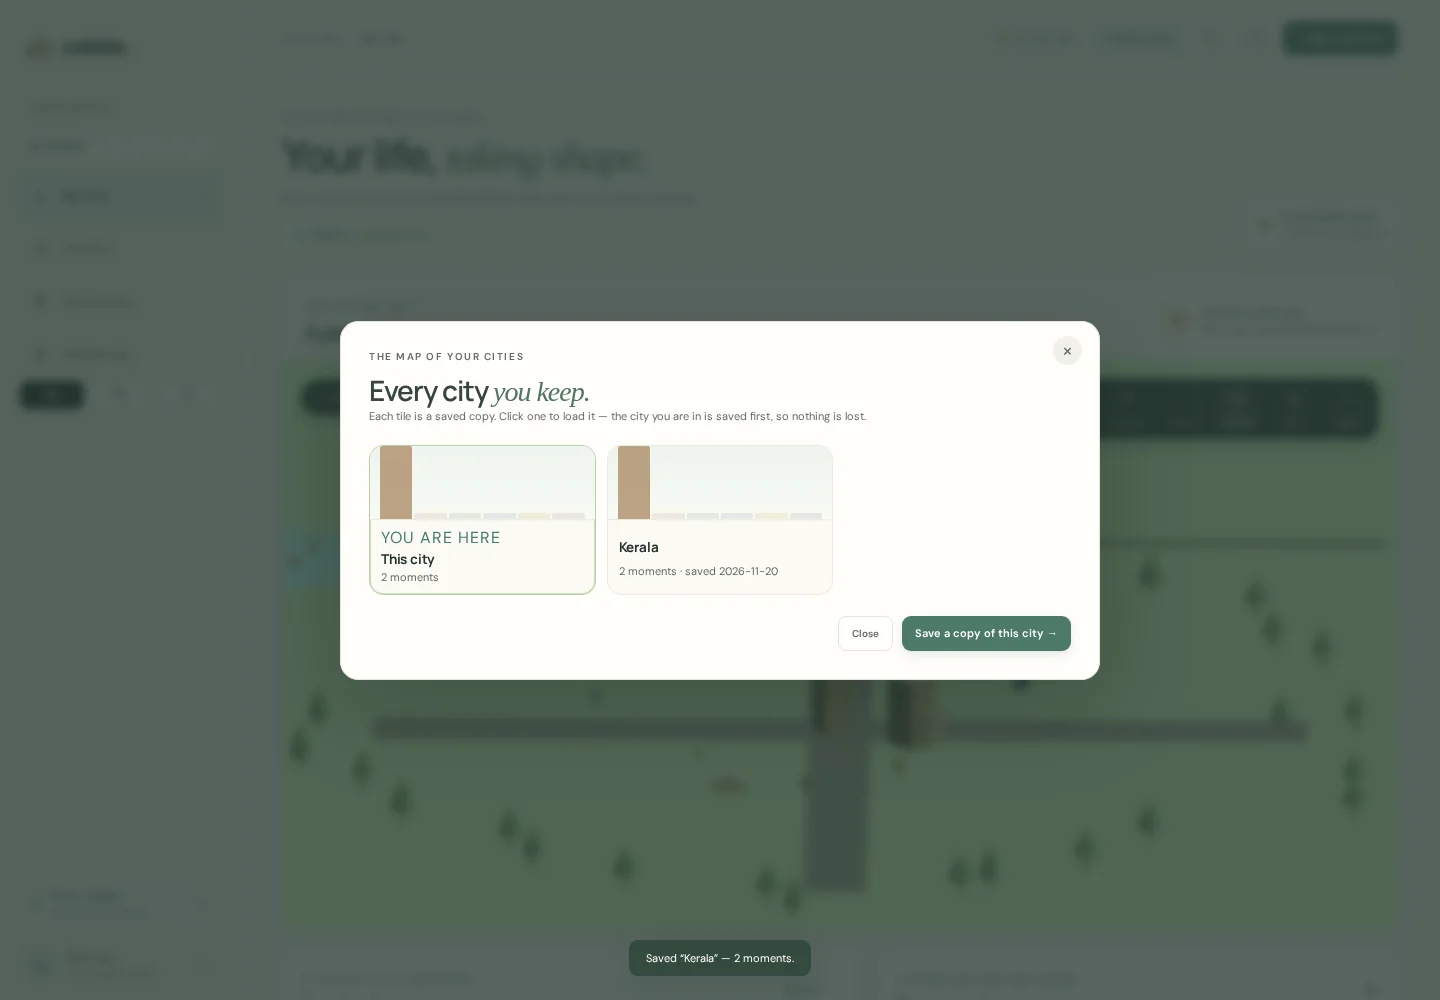
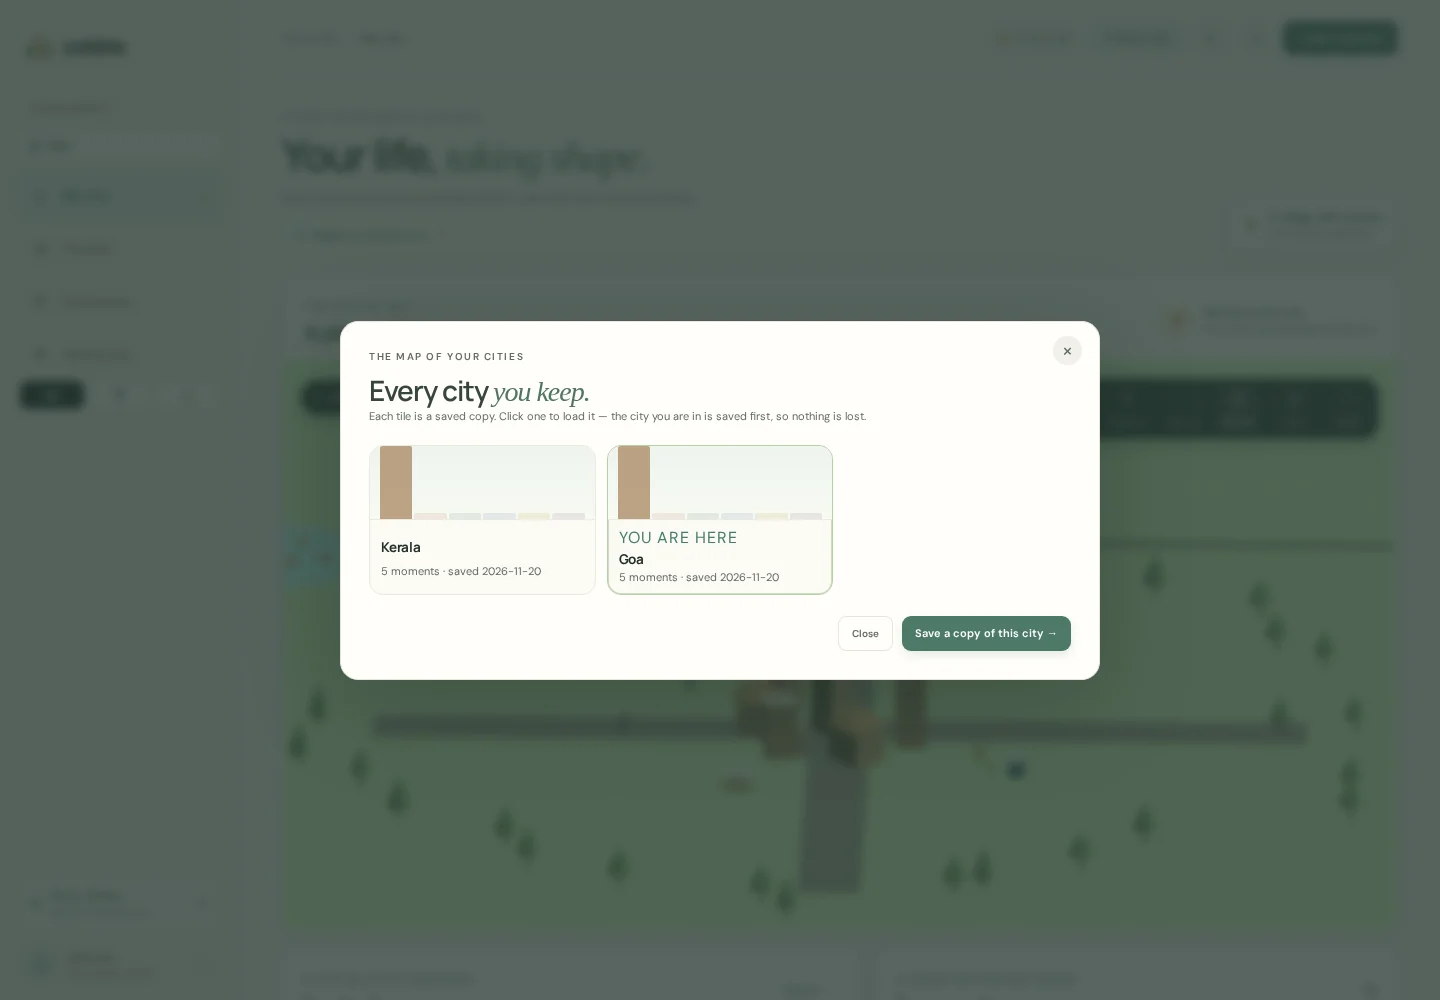
v1.49.0 — the map no longer shows the city you are in twice
With a saved city loaded the grid drew a 'This city' tile and that city's own
tile — the same archive under two names, which reads as two different places and
makes the counts look wrong. The current tile now carries 'you are here', and the
separate tile only appears when the archive is not bound to a saved city.

Also corrected the map's sentence, which still described the pre-1.47 behaviour.

diff --git a/app/app.js b/app/app.js
@@ -366,21 +366,26 @@
     let snapshots = [];
     try { snapshots = await listSnapshots(); } catch {}
 
-    const here = `
+    /* When the live archive belongs to a saved city, that city's tile is the
+       one you are in — a separate "This city" tile beside it would show the
+       same archive twice and read as two different places. */
+    const bound = snapshots.some(snap => snap.id === activeSnapshot);
+    const here = bound ? '' : `
       <button class="city-tile" type="button" aria-current="true" data-city-here="1">
         <div class="city-tile-sky">${skylineBars(countByCategory(entries))}</div>
         <div class="city-tile-body">
           <span class="city-tile-here">YOU ARE HERE</span>
-          <span class="city-tile-name">This city</span>
+          <span class="city-tile-name">${escapeHTML(activeSnapshotName || 'This city')}</span>
           <span class="city-tile-meta">${entries.length} ${entries.length === 1 ? 'moment' : 'moments'}</span>
         </div>
       </button>`;
 
     const tiles = snapshots.map(snap => `
       <div class="city-tile-wrap">
-        <button class="city-tile" type="button" data-city-load="${escapeHTML(snap.id)}">
+        <button class="city-tile" type="button" data-city-load="${escapeHTML(snap.id)}"${snap.id === activeSnapshot ? ' aria-current="true"' : ''}>
           <div class="city-tile-sky">${skylineBars(snap.counts || {})}</div>
           <div class="city-tile-body">
+            ${snap.id === activeSnapshot ? '<span class="city-tile-here">YOU ARE HERE</span>' : ''}
             <span class="city-tile-name">${escapeHTML(snap.name)}</span>
             <span class="city-tile-meta">${snap.count} ${snap.count === 1 ? 'moment' : 'moments'} · saved ${escapeHTML((snap.savedAt || '').slice(0, 10))}</span>
           </div>

diff --git a/app/index.html b/app/index.html
@@ -298,7 +298,7 @@
       <button class="modal-close" id="close-city-map" aria-label="Close">×</button>
       <p class="eyebrow">THE MAP OF YOUR CITIES</p>
       <h2 class="drawer-title" id="city-map-title">Every city <em>you keep.</em></h2>
-      <p class="drawer-lede">Each tile is a saved copy. Click one to load it — the city you are in is saved first, so nothing is lost.</p>
+      <p class="drawer-lede">Each tile is one of your cities, drawn from its own moments. Click one to load it — the city you are in keeps every change you have made to it.</p>
       <div class="city-map-grid" id="city-map-grid"></div>
       <div class="share-actions">
         <button type="button" class="cancel-button" id="close-city-map-button">Close</button>

diff --git a/sw.js b/sw.js
@@ -12,9 +12,9 @@
  * cache is deleted on activate, and the new files are fetched with cache:reload
  * during install so a stale copy cannot win.
  */
-const CACHE_VERSION = 'v46';
+const CACHE_VERSION = 'v47';
 const CACHE_NAME = `cobble-${CACHE_VERSION}`;
-const ASSET_VERSION = '1.48.0';
+const ASSET_VERSION = '1.49.0';
 
 const PRECACHE = [
   './',

diff --git a/CHANGELOG.md b/CHANGELOG.md
@@ -2,6 +2,20 @@
 
 All notable changes to Cobble. Dates are ISO 8601.
 
+## 1.49.0 — 2026-11-20
+
+### Fixed
+
+- **The map showed the city you are in twice.** With a saved city loaded, the grid drew a *This city* tile *and* that city's own tile — the same archive under two names, which reads as two different places and makes you doubt the counts. Now the tile you are in carries the *you are here* line, and the separate tile only appears when the archive is not bound to any saved city.
+
+### Changed
+
+- The map's own sentence now matches the behaviour since 1.47.0: *"Click one to load it — the city you are in keeps every change you have made to it."* It still said the old thing about saving first, which is what happens only when the archive is unsaved.
+
+### Verified
+
+- Built three cities through the interface and read the map back: two tiles, *Goa* marked *you are here* with `aria-current`, *Kerala* plain — no duplicate. Before any copy exists, the single *This city* tile still appears.
+
 ## 1.48.0 — 2026-11-20
 
 ### Added
@@ -41,6 +55,20 @@ It is still **one live archive plus named copies**, not several archives open at
 - Two moments saved as *Kerala*, then the map read: two tiles, both with six skyline bars, the current one carrying `aria-current` and the *you are here* line; clicking *Kerala* closed the map and the archive came back with its two moments. No page errors.
 - First pass drew empty districts at 4% height, which made a small archive look like one bar on an empty card; the floor is now 8% with 22% for a populated district, so a thin city still reads as a skyline.
 
+## 1.49.0 — 2026-11-20
+
+### Fixed
+
+- **The map showed the city you are in twice.** With a saved city loaded, the grid drew a *This city* tile *and* that city's own tile — the same archive under two names, which reads as two different places and makes you doubt the counts. Now the tile you are in carries the *you are here* line, and the separate tile only appears when the archive is not bound to any saved city.
+
+### Changed
+
+- The map's own sentence now matches the behaviour since 1.47.0: *"Click one to load it — the city you are in keeps every change you have made to it."* It still said the old thing about saving first, which is what happens only when the archive is unsaved.
+
+### Verified
+
+- Built three cities through the interface and read the map back: two tiles, *Goa* marked *you are here* with `aria-current`, *Kerala* plain — no duplicate. Before any copy exists, the single *This city* tile still appears.
+
 ## 1.48.0 — 2026-11-20
 
 ### Added
@@ -79,6 +107,20 @@ It is still **one live archive plus named copies**, not several archives open at
 
 - Two moments saved as *Kerala*, then the map read: two tiles, both with six skyline bars, the current one carrying `aria-current` and the *you are here* line; clicking *Kerala* closed the map and the archive came back with its two moments. No page errors.
 - First pass drew empty districts at 4% height, which made a small archive look like one bar on an empty card; the floor is now 8% with 22% for a populated district, so a thin city still reads as a skyline.
+
+## 1.49.0 — 2026-11-20
+
+### Fixed
+
+- **The map showed the city you are in twice.** With a saved city loaded, the grid drew a *This city* tile *and* that city's own tile — the same archive under two names, which reads as two different places and makes you doubt the counts. Now the tile you are in carries the *you are here* line, and the separate tile only appears when the archive is not bound to any saved city.
+
+### Changed
+
+- The map's own sentence now matches the behaviour since 1.47.0: *"Click one to load it — the city you are in keeps every change you have made to it."* It still said the old thing about saving first, which is what happens only when the archive is unsaved.
+
+### Verified
+
+- Built three cities through the interface and read the map back: two tiles, *Goa* marked *you are here* with `aria-current`, *Kerala* plain — no duplicate. Before any copy exists, the single *This city* tile still appears.
 
 ## 1.48.0 — 2026-11-20
 

diff --git a/ENHANCEMENTS.md b/ENHANCEMENTS.md
@@ -6,7 +6,7 @@ Each entry says **what**, **why it matters**, **where** it lands, and **how long
 
 - **Repo:** <https://github.com/drsamonline/Cobble>
 - **App:** <https://drsamonline.github.io/Cobble/app/>
-- **Baseline:** v1.48.0 — offline, installable, editable, searchable, keyboard-first, 24 tests, three CI checks, and a privacy notice that names its evidence.
+- **Baseline:** v1.49.0 — offline, installable, editable, searchable, keyboard-first, 24 tests, three CI checks, and a privacy notice that names its evidence.
 
 ---
 
@@ -77,12 +77,15 @@ What is left of the quick-win tier:
 | 4.1a | **The landing page in Hindi** — `hi.html`, hand-written, switcher in both headers, `hreflang` alternates, precached. Awaiting native review. | `hi.html`, `index.html` |
 | 2.20 | **axe and a language assertion on the translated pages** — three documents, three passes; found the logo's English accessible name on the Hindi and Gujarati pages. | `tools/browser-check.mjs` |
 | 4.4 | **Desktop and Android wrappers** — Tauri 2 and Capacitor 6 pointing at the same `app/`, a workflow on dispatch, an icon, and a CSP with no `connect-src` beyond self. **Authored, not built**: no Rust, SDK or Windows runner here. | `packaging/` |
+| 3.7e | **No duplicate current tile on the map — shipped in 1.49.0.** | `app/app.js` |
 | 3.7d | **Rename, delete, and a binding that survives a reload — shipped in 1.48.0.** | `app/app.js` |
 | 3.7c | **A loaded city stays live — shipped in 1.47.0.** The live archive binds to the city you loaded; saves update it in place, the sidebar names it, and the map flushes pending writes before opening. | `app/app.js` |
 | 3.7b | **A map of your cities — shipped in 1.46.0.** Tiles with a miniature skyline drawn from each city's district counts, *you are here* on the current one, click to load. | `app/app.js` |
+| 3.7e | **No duplicate current tile on the map — shipped in 1.49.0.** | `app/app.js` |
 | 3.7d | **Rename, delete, and a binding that survives a reload — shipped in 1.48.0.** | `app/app.js` |
 | 3.7c | **A loaded city stays live — shipped in 1.47.0.** The live archive binds to the city you loaded; saves update it in place, the sidebar names it, and the map flushes pending writes before opening. | `app/app.js` |
 | 3.7b | **A map of your cities — shipped in 1.46.0.** Tiles with a miniature skyline drawn from each city's district counts, *you are here* on the current one, click to load. | `app/app.js` |
+| 3.7e | **No duplicate current tile on the map — shipped in 1.49.0.** | `app/app.js` |
 | 3.7d | **Rename, delete, and a binding that survives a reload — shipped in 1.48.0.** | `app/app.js` |
 | 3.7c | **A loaded city stays live — shipped in 1.47.0.** The live archive binds to the city you loaded; saves update it in place, the sidebar names it, and the map flushes pending writes before opening. | `app/app.js` |
 | 3.7b | **A map of your cities — shipped in 1.46.0.** Tiles with a miniature skyline drawn from each city's district counts, *you are here* on the current one, click to load. | `app/app.js` |

diff --git a/README.md b/README.md
@@ -11,7 +11,7 @@ Your life, taking shape. A private city built from the small things you notice. 
 **Status: v1.5.0 — shipped, offline, editable, searchable, and tested.** The city, the timeline, the discoveries, the sample city, the encrypted share and the export all work today. Nothing below is marked "planned"; the ideas that are not built yet live in [ENHANCEMENTS.md](ENHANCEMENTS.md), in order of effort.
 
 [![Licence: PolyForm Noncommercial 1.0.0](https://img.shields.io/badge/licence-PolyForm%20Noncommercial%201.0.0-477d70.svg)](LICENSE)
-[![Version](https://img.shields.io/badge/version-1.48.0-e2a66f.svg)](CHANGELOG.md)
+[![Version](https://img.shields.io/badge/version-1.49.0-e2a66f.svg)](CHANGELOG.md)
 [![Works offline](https://img.shields.io/badge/offline-works-2ea44f.svg)](sw.js)
 [![Installable](https://img.shields.io/badge/installable-PWA-7ec8e3.svg)](manifest.json)
 [![Runtime deps](https://img.shields.io/badge/runtime%20deps-zero%20CDNs-2ea44f.svg)](app/vendor/)
